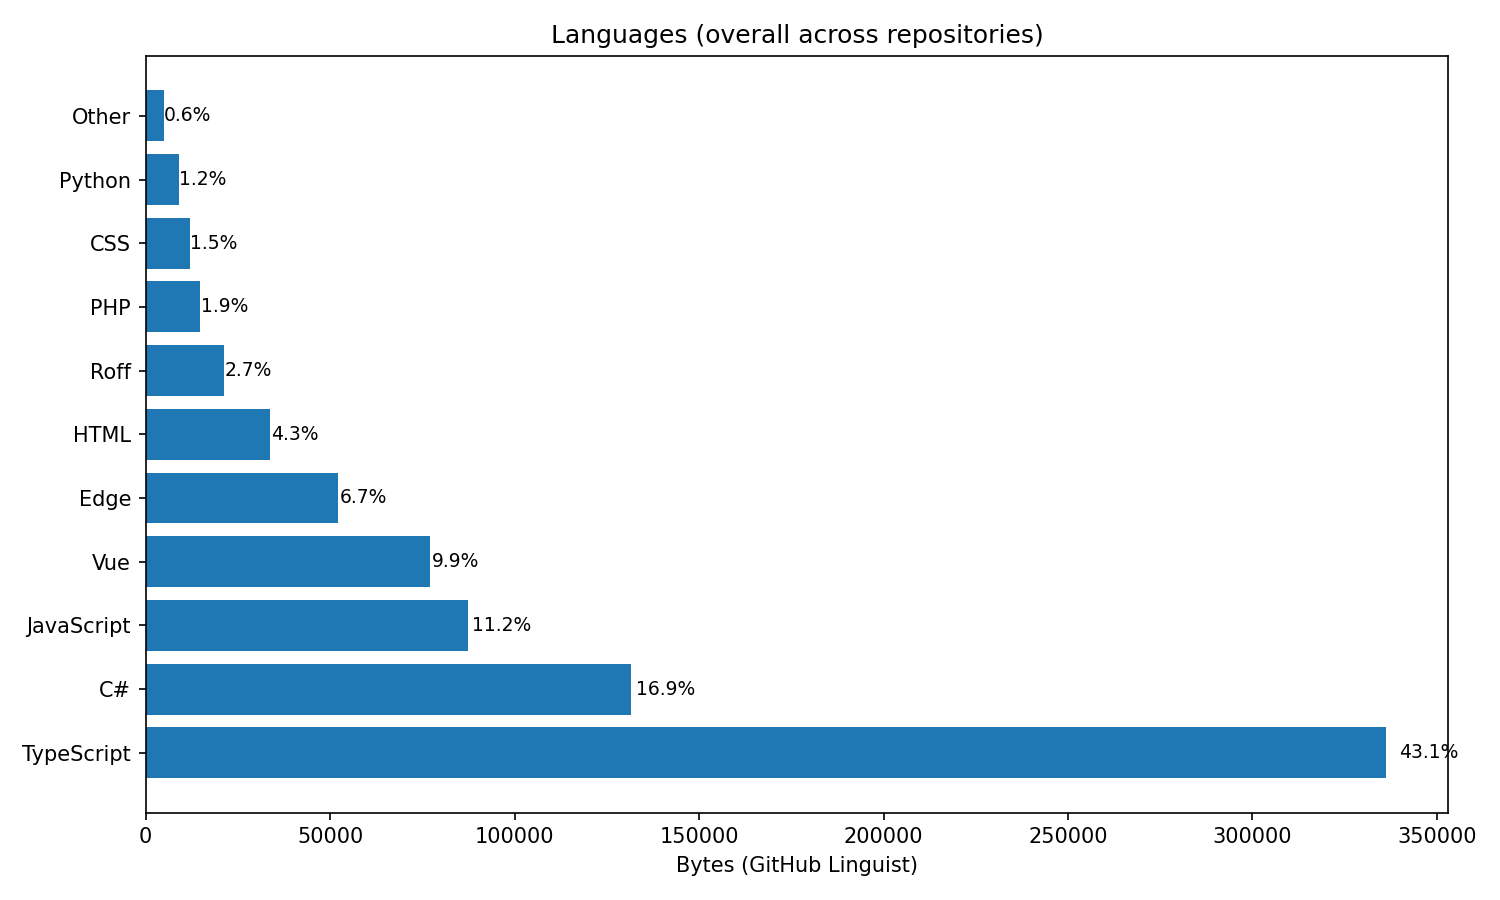
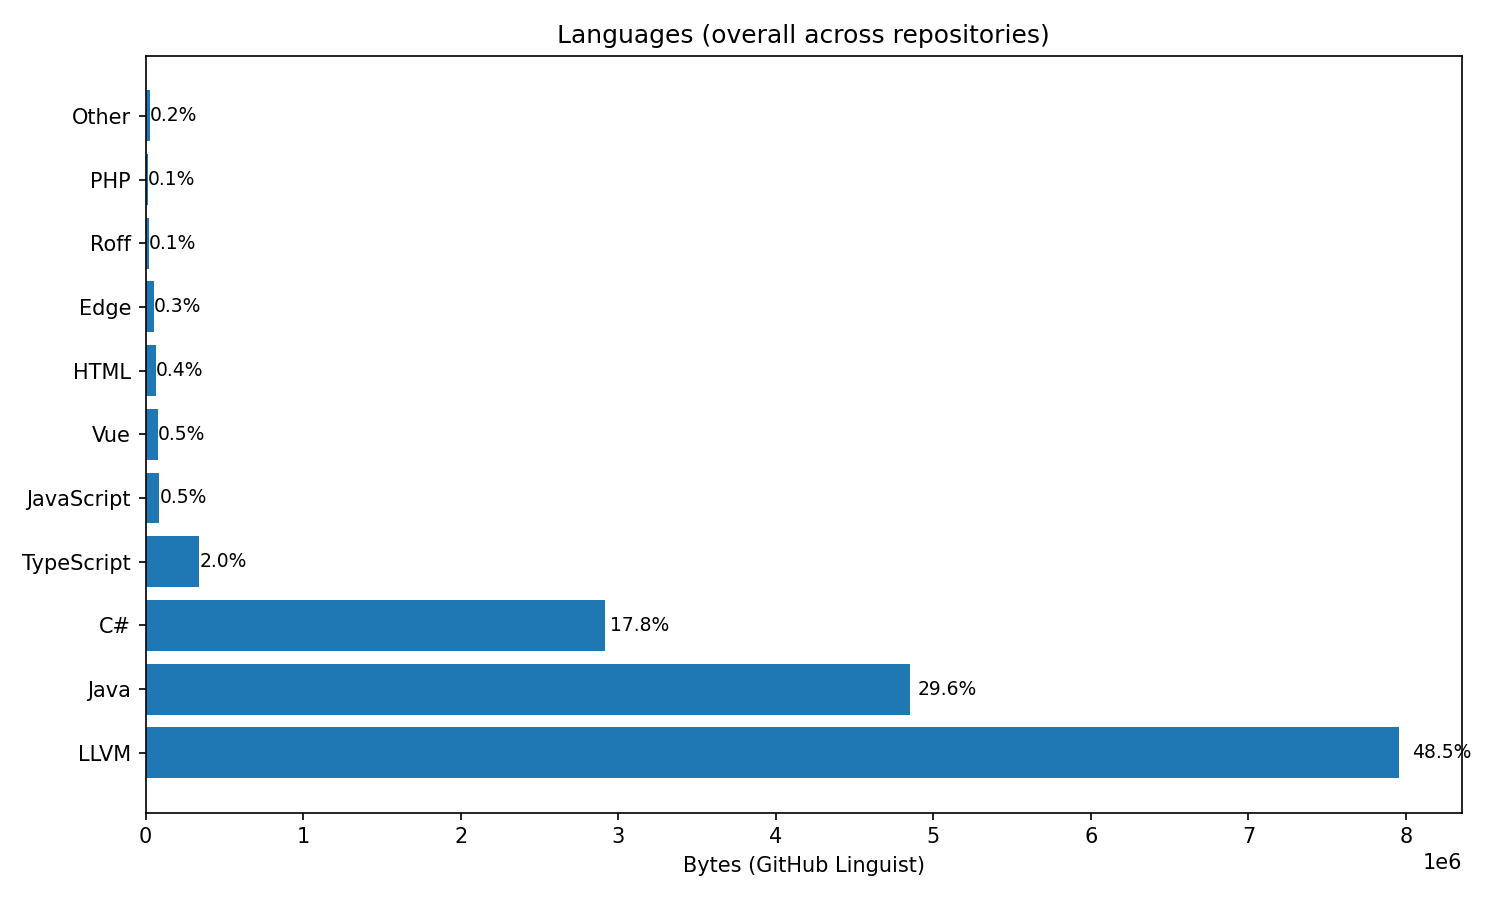
chore: update languages report and graph

diff --git a/LANGUAGES.md b/LANGUAGES.md
@@ -1,32 +1,34 @@
 # Language usage report
 
-Generated: 2026-02-09T06:55:02.941Z
+Generated: 2026-02-16T06:53:13.554Z
 
 ## Overall (all repos combined)
 
 | Language | Share | Bytes |
 |---|---:|---:|
-| TypeScript | 43.13% | 336,273 |
-| C# | 16.87% | 131,538 |
-| JavaScript | 11.22% | 87,484 |
-| Vue | 9.87% | 76,944 |
-| Edge | 6.69% | 52,133 |
-| HTML | 4.31% | 33,610 |
-| Roff | 2.71% | 21,129 |
-| PHP | 1.89% | 14,738 |
-| CSS | 1.53% | 11,914 |
-| Python | 1.16% | 9,020 |
-| Bru | 0.35% | 2,696 |
-| AIDL | 0.18% | 1,409 |
-| Shell | 0.10% | 748 |
+| LLVM | 48.50% | 7,957,317 |
+| Java | 29.59% | 4,854,457 |
+| C# | 17.77% | 2,915,202 |
+| TypeScript | 2.05% | 336,273 |
+| JavaScript | 0.53% | 87,484 |
+| Vue | 0.47% | 76,944 |
+| HTML | 0.40% | 66,168 |
+| Edge | 0.32% | 52,133 |
+| Roff | 0.13% | 21,129 |
+| PHP | 0.09% | 14,738 |
+| CSS | 0.07% | 11,914 |
+| Python | 0.05% | 9,020 |
+| Bru | 0.02% | 2,696 |
+| AIDL | 0.01% | 1,409 |
+| Shell | 0.00% | 748 |
 
-Total bytes: **779,636**
+Total bytes: **16,407,632**
 
 ## Per repository (top 5 languages)
 
 | Repo | Total bytes | Top languages |
 |---|---:|---|
-| MAUI-flashcards-vpa | 150,916 | TypeScript 48.5%, HTML 21.6%, Roff 14.0%, C# 13.4%, AIDL 0.9% |
+| MAUI-BooksReader-vpa | 15,778,912 | LLVM 50.4%, Java 30.8%, C# 17.8%, TypeScript 0.5%, HTML 0.4% |
 | cicd-todo-app | 135,930 | Vue 56.6%, JavaScript 22.5%, TypeScript 19.3%, CSS 1.2%, HTML 0.3% |
 | PoC-TWINT-WERO | 113,951 | TypeScript 54.7%, JavaScript 33.9%, Edge 8.0%, CSS 3.3% |
 | Real-Time-Load-Analytics-Dashboard | 111,285 | C# 100.0% |
